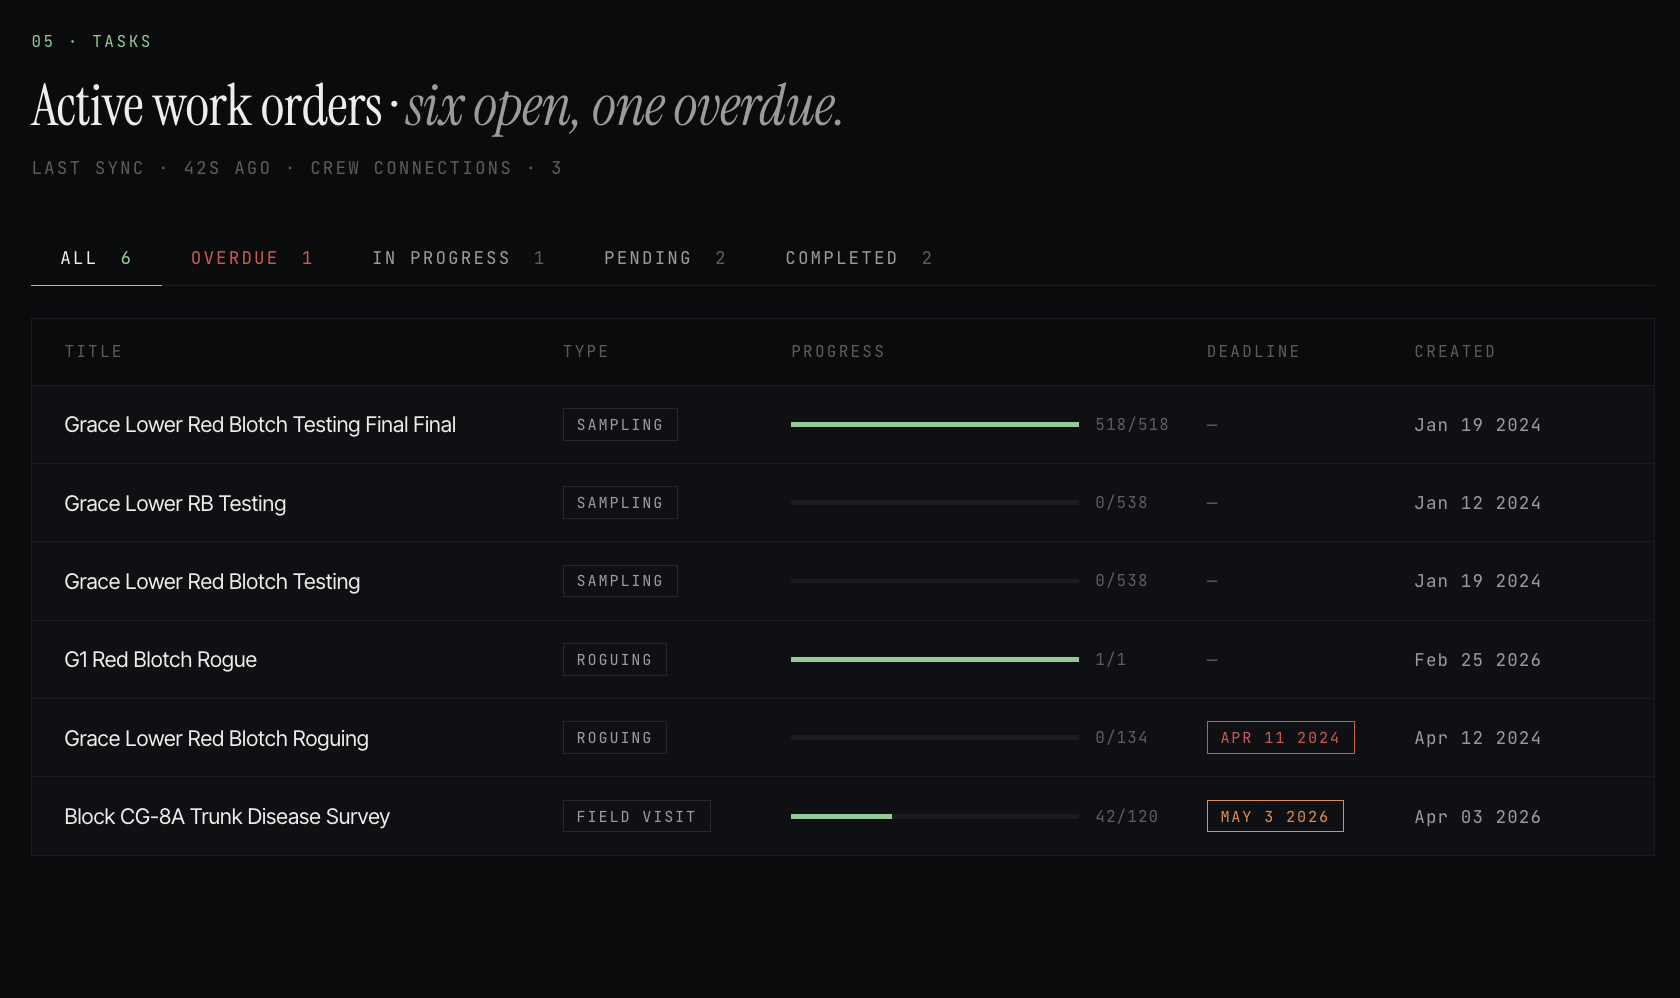
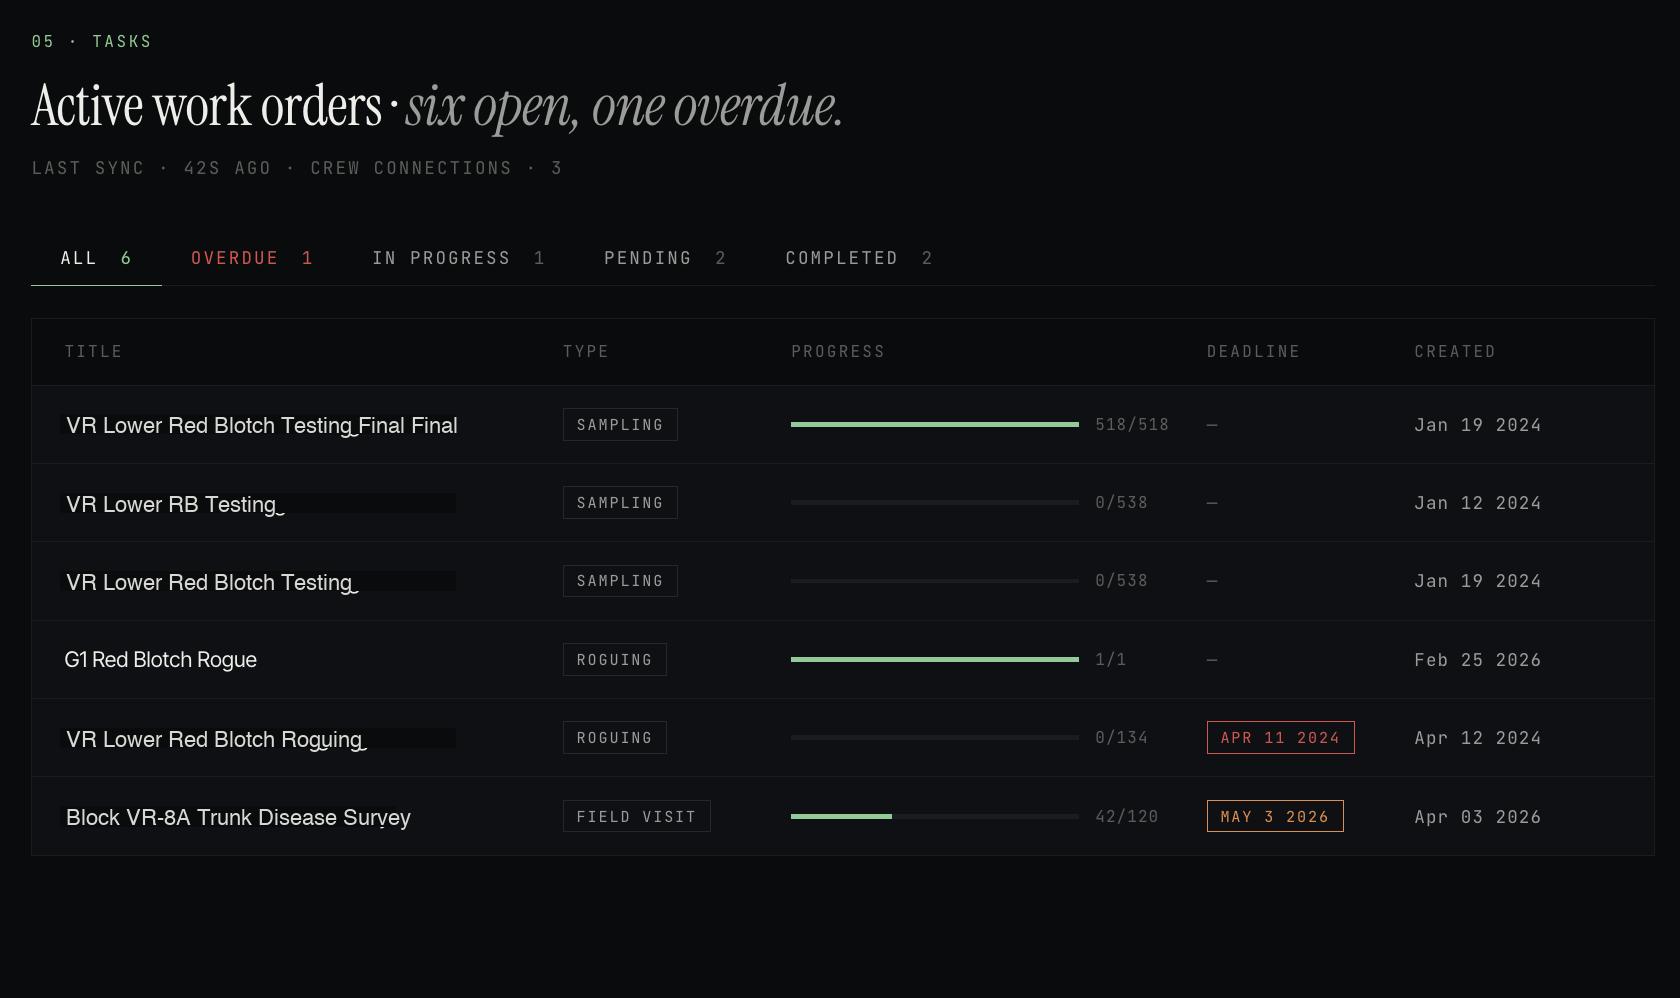
Scrub all Grace/Grace Estate references from public website
- About.tsx: Removed Grace Family Vineyards from Shawn bio, replaced with generic premier Napa estates language
- Locale files (en, es, fr, it, ro, hy, sr): Same bio scrub across all languages
- analytics-dashboard.png: Replaced GRACE ESTATE filter pill and Grace in field note with Volcanic Ridge
- disease-tracking-map.png: Replaced GRACE ESTATE in filter bar
- work-orders.png: Replaced 4x Grace Lower work order titles with VR Lower, Block CG-8A with Block VR-8A

diff --git a/src/components/About.tsx b/src/components/About.tsx
@@ -80,9 +80,9 @@ export default function About() {
             <div>
               <div className="role">CEO &amp; Co-Founder</div>
               <h4>Shawn DeMartino</h4>
-              <p>A decade in Napa -- Screaming Eagle, Harlan Estate, Grace Family Vineyards -- where he served as Director of Grace Family. Sentinel began as the spreadsheet he kept pinned to the cellar wall. He now runs the company from the vineyard side of the fence.</p>
+              <p>A decade managing premier Napa estates -- where he served as Director of Viticulture for a cult Cabernet producer. Sentinel began as the spreadsheet he kept pinned to the cellar wall. He now runs the company from the vineyard side of the fence.</p>
               <dl>
-                <dt>Prior</dt><dd>Grace Family Vineyards &middot; Harlan &middot; Screaming Eagle</dd>
+                <dt>Prior</dt><dd>Director of Viticulture &middot; Premier Napa Estates</dd>
                 <dt>Education</dt><dd>Harvard, A.B. &apos;14</dd>
                 <dt>Based</dt><dd>Napa Valley, CA</dd>
               </dl>
